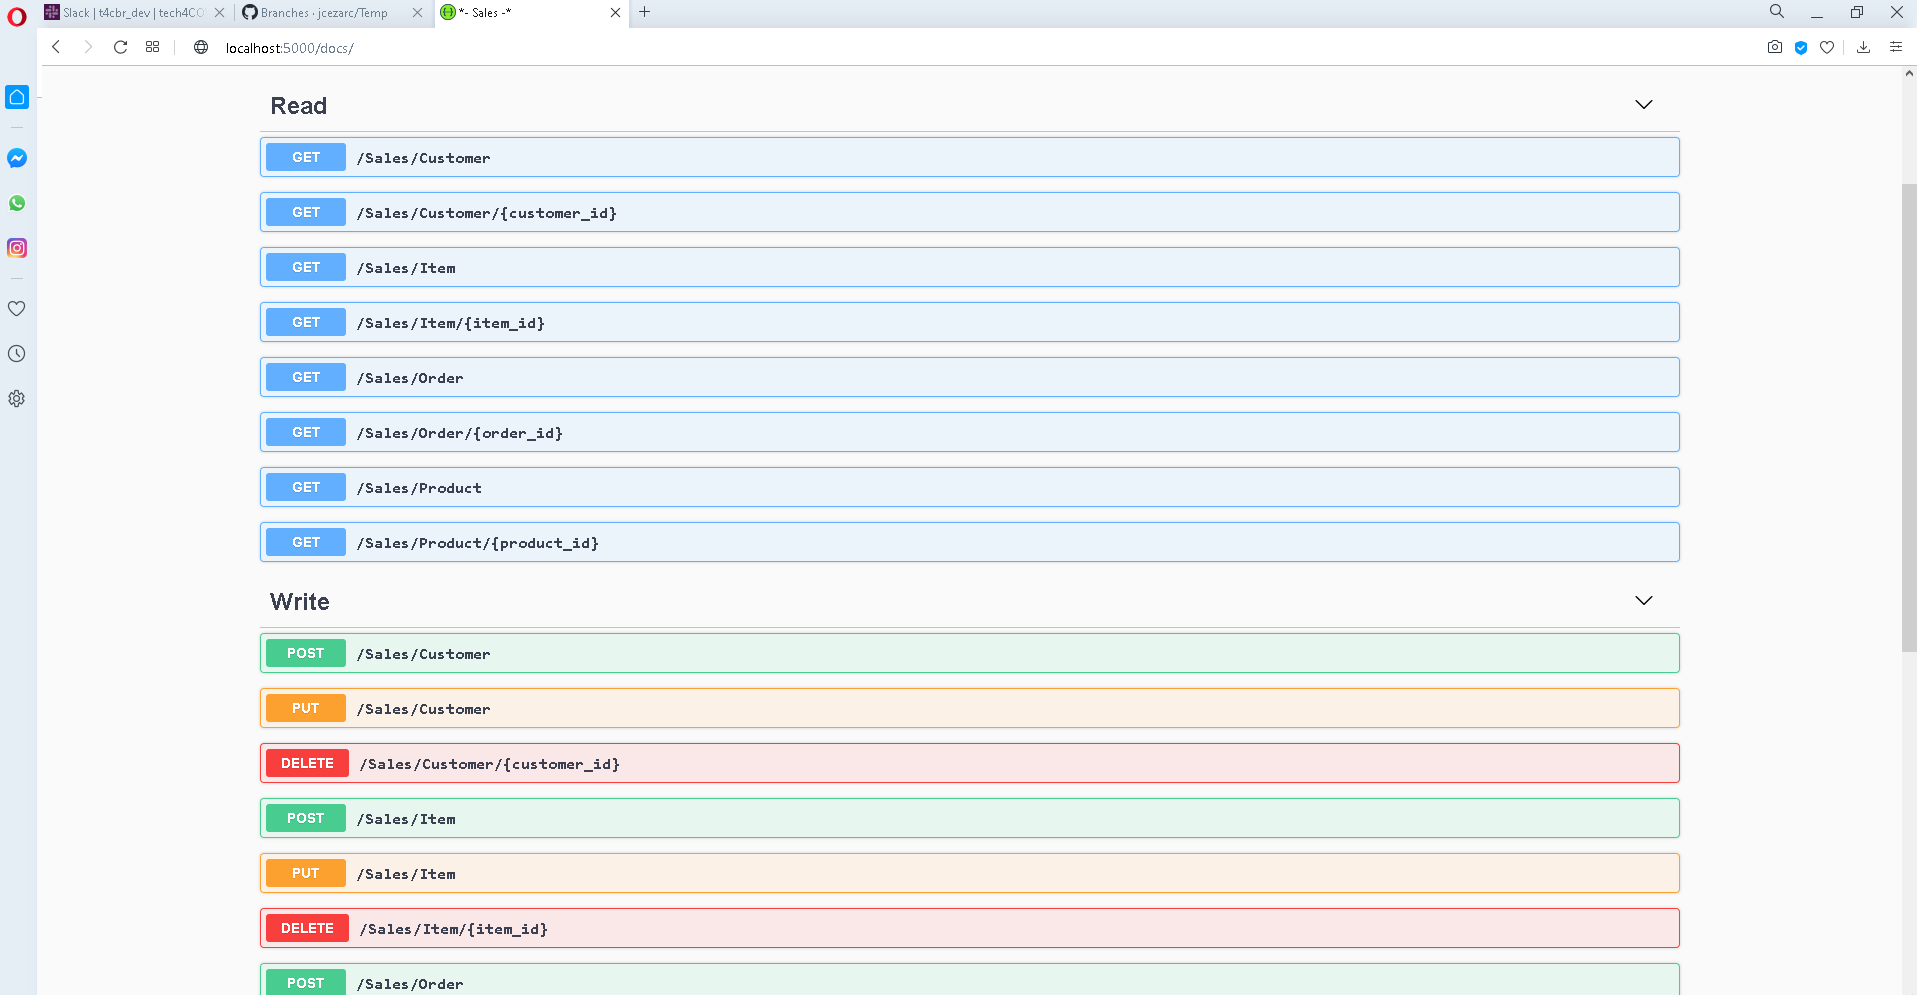
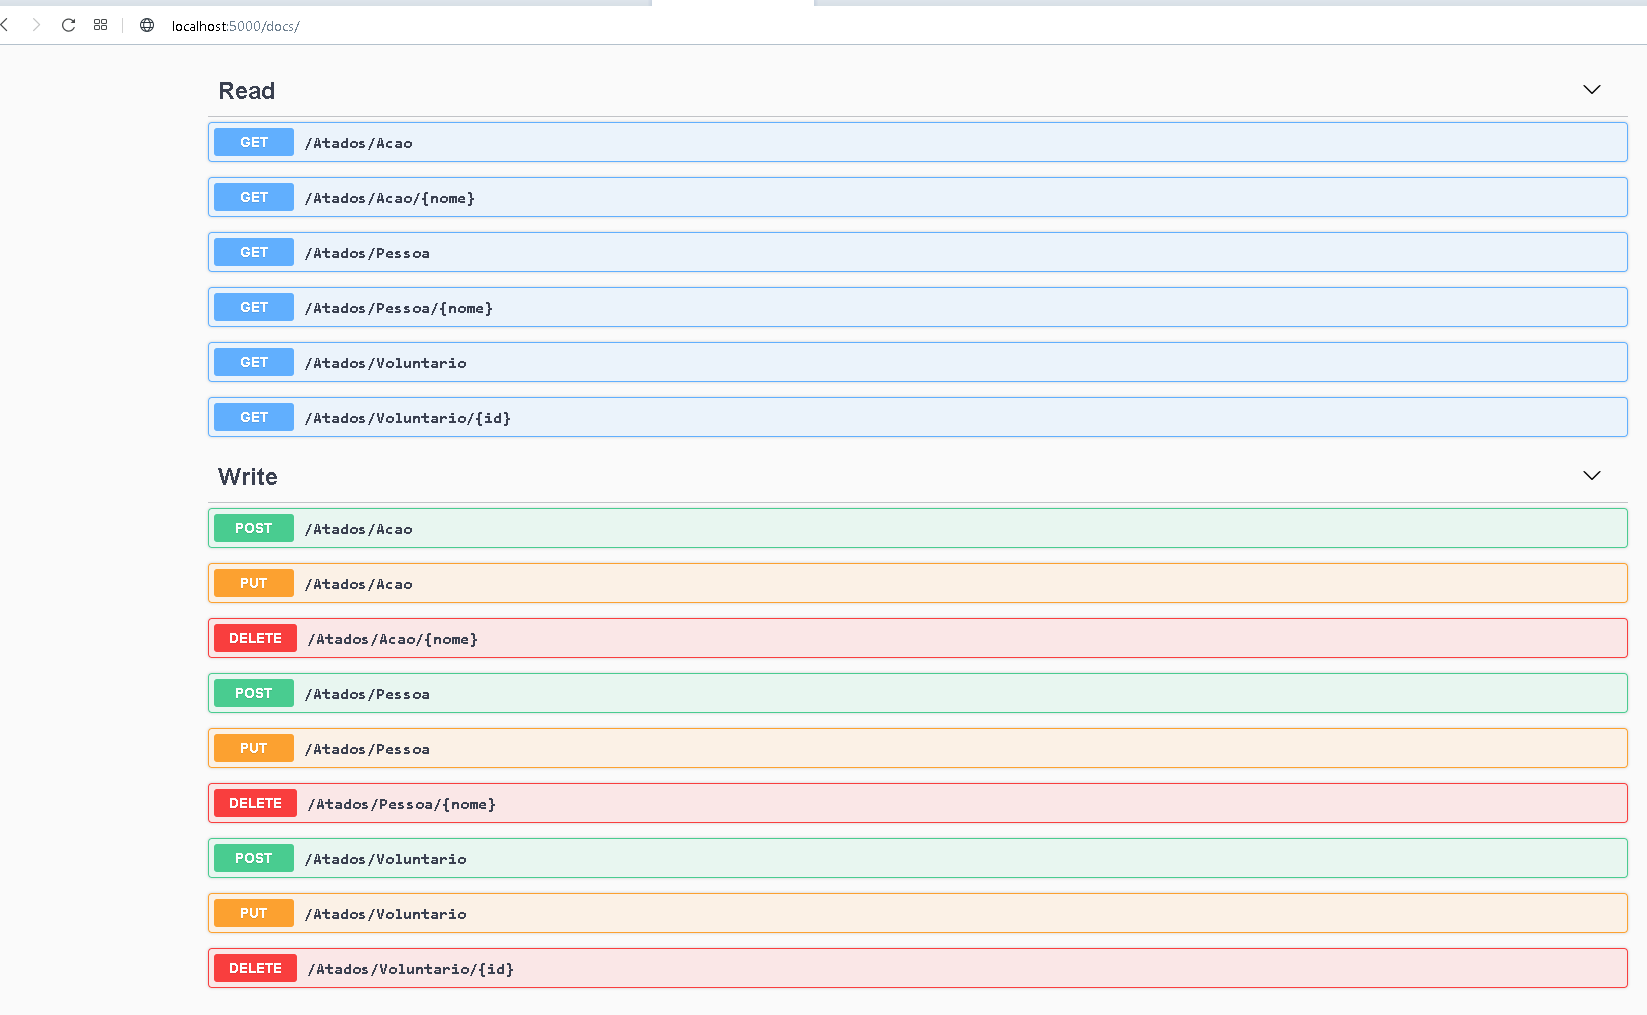
REadme e Ajustes

diff --git a/util/db/neo4j_table.py b/util/db/neo4j_table.py
@@ -43,9 +43,6 @@ class Neo4Table(DbTable):
         return result
 
     def inflate(self, row, last=None, suffix=''):
-        # 
-        # [To-Do]  No banco de dados "Sale", a consulta de vários itens aninhados resulta em arrays duplicados...!!
-        #
         record={}
         combine = False
         curr_alias = self.alias+suffix
@@ -66,7 +63,7 @@ class Neo4Table(DbTable):
                     result.append(value)
                     value = result
             elif last and field in self.pk_fields:
-                combine = last[field] == value
+                combine = last.get(field) == value
             record[field] = value
         return record, combine
 
@@ -81,8 +78,7 @@ class Neo4Table(DbTable):
         result = []
         record = None
         for row in dataset:
-            # record, to_update = self.inflate(row, record)
-            record = row
+            record, to_update = self.inflate(row, record)
             if to_update:
                 result[-1] = record
             else:

diff --git a/README.md b/README.md
@@ -21,16 +21,16 @@ Supondo que você esteja rodando esta API **localmente**, as seguintes rotas est
 * `/docs` Traz a documentação _Swagger_ com todos os verbos REST disponíveis para a API e exemplos funcionais (Os verbos REST podem ser usados diretamente no browser, ou com algum programa como _POSTMAN_...)
 ![](./doc/Swagger.png)
 
-* `/Sales/Customer` Pode ser usado para trazer vários clientes (onde você pode passar uma query com os nomes dos campos, p.ex.: `...?name=CUSTOMERXYZ`)
+* `/Atados/Acao` Pode ser usado para trazer vários clientes (onde você pode passar uma query com os nomes dos campos, p.ex.: `...?nome=ACAOXYZ`)
     * você pode também passar um `.../<customer_id>`
     para operações que exigem um registro único (consulta por campo chave ou exclusão)
     * Em caso de **POST** ou **PUT** é preciso passar o JSON adequado no _body_ da requisição (o formato do JSON estará na documentação Swagger).
 
-* `/Sales/Product` Funciona igual _/Sales/Customer_ só que para **Produtos**.
+* `/Atados/Product` Funciona igual _/Atados/Customer_ só que para **Produtos**.
 
-* `/Sales/Order` Funciona igual _/Sales/Customer_ só que para **Pedidos**.
+* `/Atados/Order` Funciona igual _/Atados/Customer_ só que para **Pedidos**.
 
-* `/Sales/Item` Funciona igual _/Sales/Customer_ só que para **Itens de pedido**.
+* `/Atados/Item` Funciona igual _/Atados/Customer_ só que para **Itens de pedido**.
 
 ---
 
